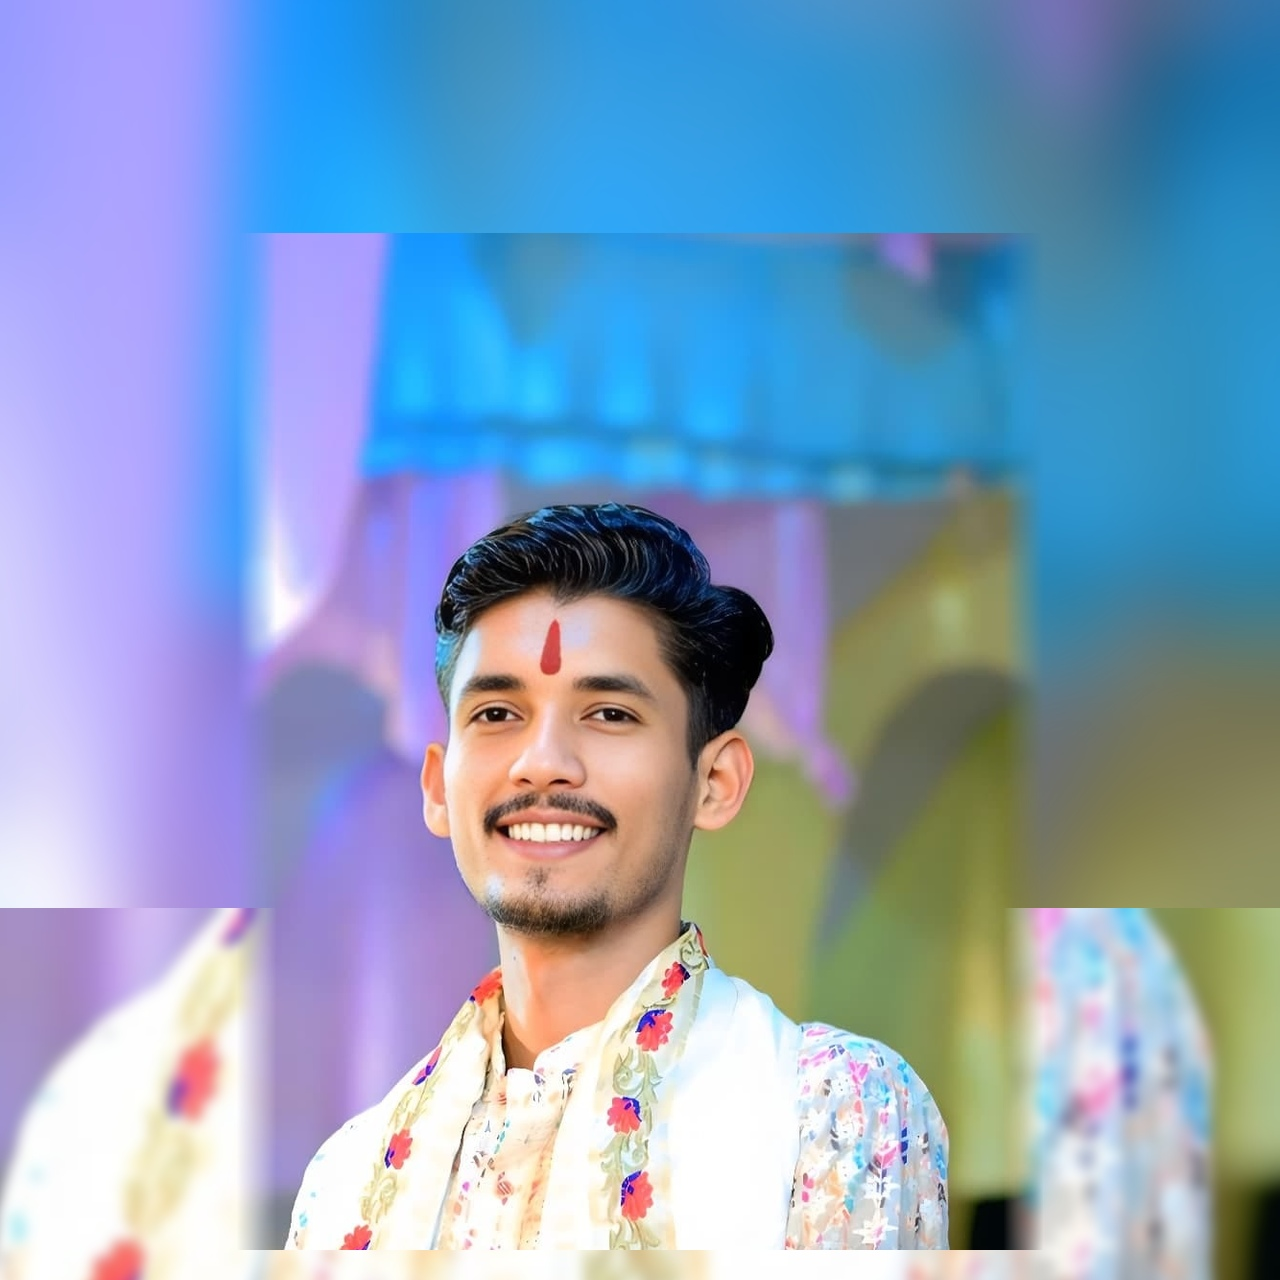
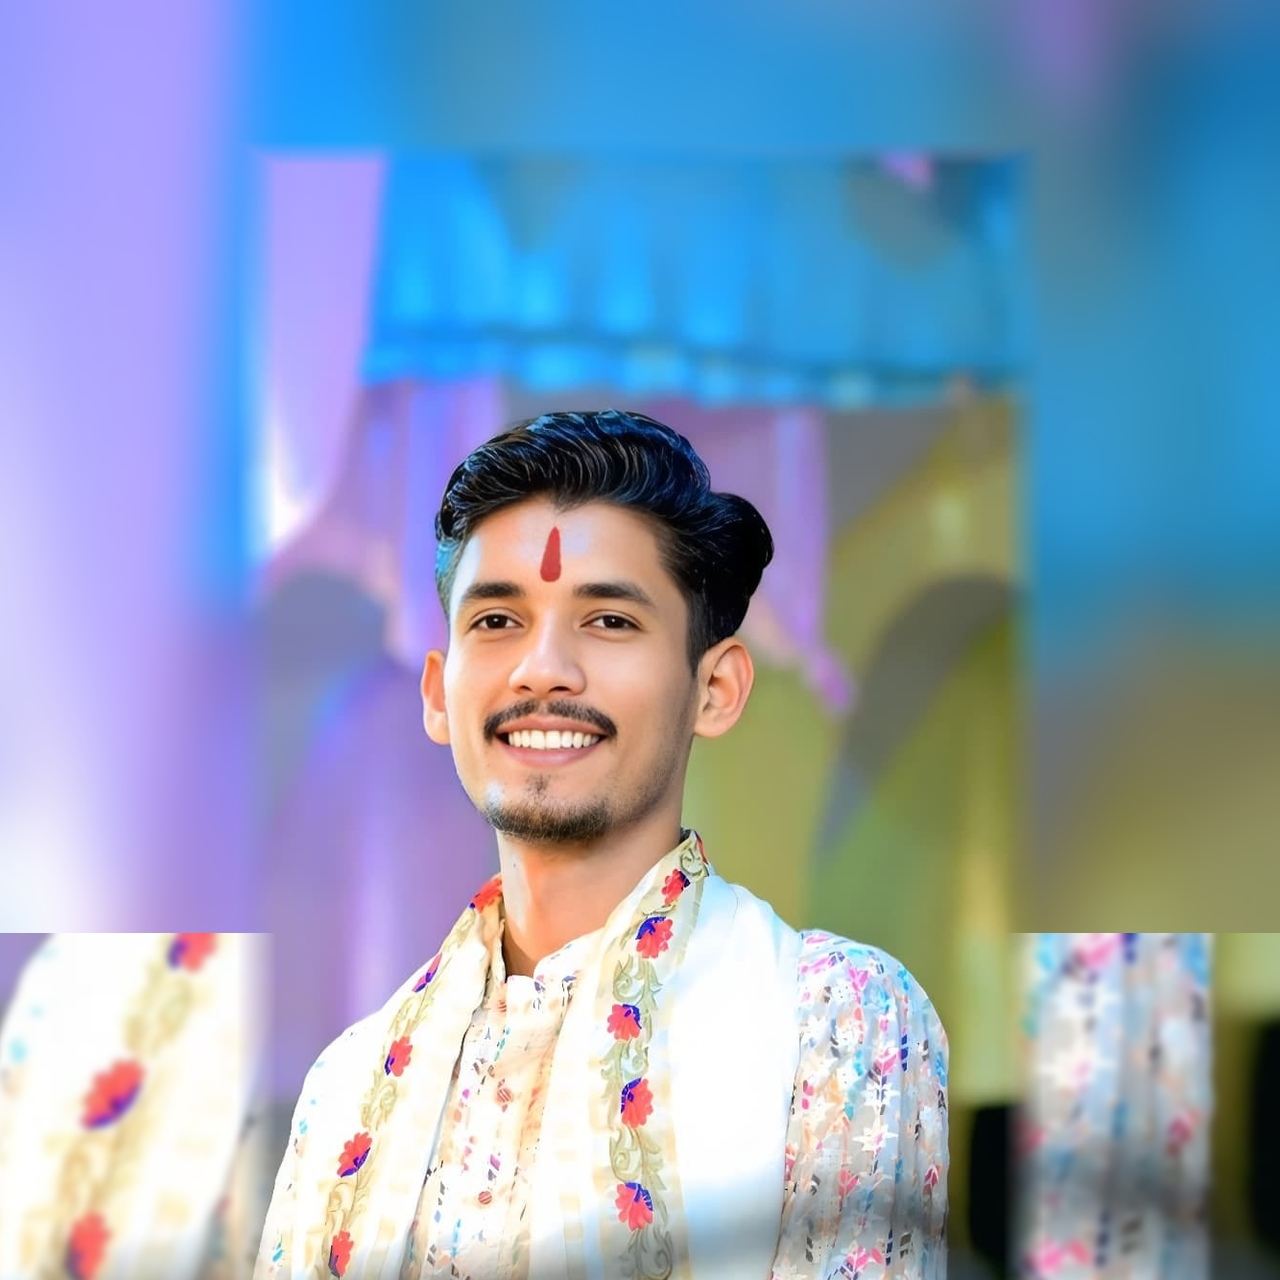
feat: redirect contact msg to whatsapp, restore full uncropped photos, clean hero circle frame, remove poster subtitle

diff --git a/templates/core/home.html b/templates/core/home.html
@@ -51,7 +51,7 @@
           <div class="hero-photo-frame">
             <div class="hero-photo-halo"></div>
             <div class="hero-photo-box">
-              <img src="{% static 'img/astrologer_square.jpg' %}?v=4" alt="Pandit Gajendra Sharma - Vedic Astrologer">
+              <img src="{% static 'img/astrologer_square.jpg' %}?v=5" alt="Pandit Gajendra Sharma - Vedic Astrologer">
             </div>
             <div class="hero-photo-badge hero-badge-right">
               <i class="fa-solid fa-hand-holding-heart text-warning"></i>
@@ -199,7 +199,7 @@
       <div class="col-lg-5 order-lg-2 order-1 text-center">
         <div class="about-img-wrap">
           <div class="about-img-box">
-            <img src="{% static 'img/astrologer.jpeg' %}?v=4" alt="Pandit Gajendra Sharma">
+            <img src="{% static 'img/astrologer.jpeg' %}?v=5" alt="Pandit Gajendra Sharma">
           </div>
           <div class="about-exp-badge">
             <div class="num">10+</div>
@@ -220,9 +220,6 @@
         Sacred Gallery &amp; <span class="gradient-text-cyan">Posters</span>
       </h2>
       <div class="modern-divider"></div>
-      <p class="text-muted mx-auto" style="max-width: 600px;">
-        Glimpses of sacred anushthans, Shrimad Bhagwat Katha, and Vedic rituals conducted by Pandit Gajendra Sharma.
-      </p>
     </div>
     
     <div class="row gy-4">

diff --git a/templates/base.html b/templates/base.html
@@ -16,7 +16,7 @@
 <link rel="preconnect" href="https://fonts.gstatic.com" crossorigin>
 <link href="https://fonts.googleapis.com/css2?family=Outfit:wght@300;400;500;600;700;800;900&family=Plus+Jakarta+Sans:wght@300;400;500;600;700;800&display=swap" rel="stylesheet">
 <!-- Custom CSS -->
-<link rel="stylesheet" href="{% static 'css/style.css' %}?v=11.0">
+<link rel="stylesheet" href="{% static 'css/style.css' %}?v=12.0">
 <script>
   (function() {
     var savedTheme = localStorage.getItem('site-theme') || 'dark';

diff --git a/templates/core/about.html b/templates/core/about.html
@@ -73,7 +73,7 @@
       <div class="col-lg-5 order-lg-2 order-1 text-center">
         <div class="about-img-wrap">
           <div class="about-img-box">
-            <img src="{% static 'img/astrologer.jpeg' %}?v=4" alt="Pandit Gajendra Sharma">
+            <img src="{% static 'img/astrologer.jpeg' %}?v=5" alt="Pandit Gajendra Sharma">
           </div>
           <div class="about-exp-badge">
             <div class="num">10+</div>

diff --git a/core/views.py b/core/views.py
@@ -1,3 +1,5 @@
+import urllib.parse
+from django.conf import settings
 from django.shortcuts import render, redirect
 from django.contrib import messages
 from .models import FAQ, SiteBanner
@@ -7,6 +9,22 @@ from blog.models import Post
 from gallery.models import GalleryImage
 from reviews.models import Review
 from django.db.models import Avg
+
+
+def get_contact_whatsapp_url(contact_msg):
+    phone_number = settings.BUSINESS_WHATSAPP
+    text = (
+        f"🙏 जय श्री राम, पंडित जी!\n"
+        f"मैंने आपकी वेबसाइट ({settings.SITE_NAME}) से संपर्क संदेश भेजा है:\n\n"
+        f"👤 नाम: {contact_msg.name}\n"
+        f"📞 मोबाइल नंबर: {contact_msg.phone or 'उपलब्ध नहीं'}\n"
+        f"📧 ईमेल: {contact_msg.email}\n"
+        f"📌 विषय: {contact_msg.subject or 'सामान्य पूछताछ / परामर्श'}\n\n"
+        f"💬 संदेश / समस्या:\n{contact_msg.message}\n\n"
+        f"कृपया मार्गदर्शन प्रदान करने की कृपा करें। सादर प्रणाम!"
+    )
+    encoded = urllib.parse.quote(text)
+    return f"https://wa.me/{phone_number}?text={encoded}"
 
 
 def home(request):
@@ -35,9 +53,10 @@ def contact(request):
     if request.method == 'POST':
         form = ContactForm(request.POST)
         if form.is_valid():
-            form.save()
-            messages.success(request, 'Thank you for reaching out! We will get back to you soon.')
-            return redirect('core:contact')
+            contact_msg = form.save()
+            whatsapp_url = get_contact_whatsapp_url(contact_msg)
+            messages.success(request, 'Thank you! Redirecting to Panditji on WhatsApp...')
+            return redirect(whatsapp_url)
         else:
             messages.error(request, 'Please correct the errors below.')
     else:
